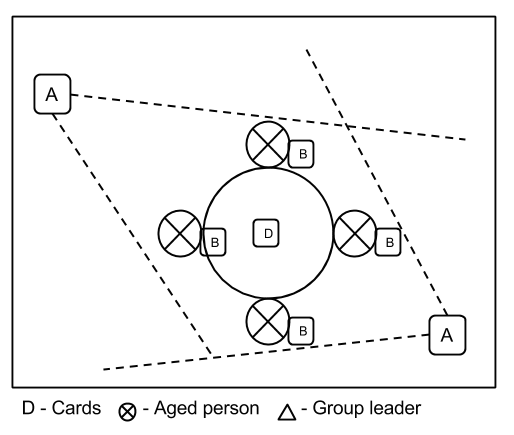
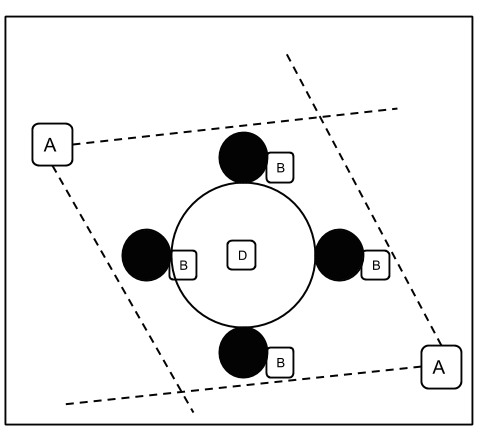
Add Tiago's superficial suggestions.

diff --git a/tex/4_user_studies.tex b/tex/4_user_studies.tex
@@ -2,11 +2,11 @@
 
 Firstly, developing this kind of technology, such as a robot for aged people, brings some delicate questions.
 The potential users sometimes have few or nonexistent experience with technology.
-Regarding this evidence, it is difficult for them to understand how robots work and what can they actually do.
+Regarding this evidence, it is difficult for them to understand how robots work and what they can actually do.
 
 Considering the goal of developing an social embodied agent in the game scenario, user studies will be required, similarly to what Pereira et al. have done with the Risk player.
-These user studies aim to collect specific behaviours and verbal interactions in the domain of \emph{Sueca}.
-However, understanding their needs, expectations and fears is a priority. As a result, a pilot study was developed in a care home in order to answer all these questions.
+These user studies aim to collect specific social, verbal and nonverbal behaviours, and also some cognitive and strategic guidelines in the domain of \emph{Sueca}.
+However, understanding their needs, expectations and fears is a priority \cite{Lisboa}. As a result, a pilot study was developed in a care home in order to answer all these questions.
 
 The pilot study involved two different
 activities, a focus group and a card game.
@@ -25,7 +25,7 @@ Usually, people tend to feel comfortable and easily share their opinions about t
 \subsubsection{Methodology}
 The elderly participants were divided into groups of 5 people.
 There were 2 researchers per group commanding and guiding all the process.
-The list of used materials is:
+The list of materials used per group:
 
 \begin{itemize}
 \item A video to illustrate what is a robot;
@@ -33,6 +33,7 @@ The list of used materials is:
 \item Two white boards and three pens (black, red and green);
 \item Three hypothetical stories of robots;
 \item An audio recorder;
+\item Four lavalier microphones;
 \item A video camera.
 \end{itemize}
 
@@ -41,18 +42,18 @@ The mentioned video tries to answer the questions: what is a robot, what can rob
 In order not to bias their thoughts, we tried to gather positive and negative aspects of existing robots.
 The three hypothetical stories aim to bring ethical discussions to the focus group.
 For instance, an elderly that owns a robot in his home tells him a secret.
-If that robot is questioned about the secret, it should or should not tell other people the truth?
+If that robot is questioned about the secret, should it or should it not tell other people the truth?
 
 \subsubsection{Procedures}
-All the material enumerated in the previous list were arranged as in the Figure~\ref{fig:focus-group}.
+All the materials enumerated in the previous list were arranged as in Figure~\ref{fig:focus-group}.
 Firstly, each one in the room briefly introduces himself in order to make everyone feeling more comfortable.
 Secondly, the video is shown.
 Then, everyone starts discussing about robots' purposes and they are registered in one of the white boards with the black coloured pen.
 People also express a positive or negative impression of each robot's purpose and their opinions decide the colour of the surrounding line.
 For instance, the sentence ``Call an ambulance'' written on the board is surrounded by a green line if they think it is a good purpose for a robot.
 After finishing this task, one of the group leaders writes all the sentences previously collected in the second board but without the surrounding green or red lines.
-The other group leader starts reading the hypothetical stories and opens a new discussion about what should the robots of each story do.
-He also presents the photographies and try to understand which robot is more suitable for each purpose in their opinion.
+The other group leader starts reading the hypothetical stories and opens a new discussion about what the robots of each story should do.
+He also presents the photographs and tries to understand which robot is more suitable for each purpose in their opinion.
 When bringing the new board to the room, the idea is to understand if their positive and negative opinions about each purpose have changed.
 
 \begin{figure}
@@ -67,13 +68,13 @@ When bringing the new board to the room, the idea is to understand if their posi
                 \caption{Card game}
                 \label{fig:card-game}
         \end{subfigure}
-        \caption{Setting of the user study activities}\label{fig:user-studies}
+        \caption{Setting of the user study activities. A - Video recorder B - Audio recorder / Microphone C - White board D - cards \ding{108} - Aged person \ding{115} - Group leader}\label{fig:user-studies}
 \end{figure}
 
 
 \subsubsection{Preliminary Results}
 
-This focus group is an ongoing activity that has not been fully analysed.
+This focus group is an ongoing activity that has not yet been fully analysed.
 Information has already been collected from 3 different focus groups with a sum of 15 participants.
 For instance, contrasting with what was expected, the elderly do not feel uncomfortable and disrespected with a robot calling the doctor and revealing improper behaviours from its owner.
 Instead, they think it is a valuable aid in their lives and might save them while disrespecting strict instructions.
@@ -87,9 +88,11 @@ When walking through the house and sometimes due to physical disabilities, they 
 
 
 \subsection{Card Game}
-This pilot activity with card games aim to rehearse further studies and to start collecting information from the \emph{Sueca} domain.
+This pilot card game activity aims two distinct purposes.
+On one hand, to collect all kind of behaviours and interactions between players during the game.
+On the other hand, to rehearse and check technical the set-up for further studies.
 It is important to understand difficulties, for instance lightning conditions might affect video recording or the room acoustic and noise might affect audio recording.
-Testing this conditions is essential to guarantee the analyses of additional studies.
+Testing these conditions is essential to guarantee the analyses of additional studies.
 Moreover, perceiving how the elderly play, what do they say and how they behave in certain game states.
 
 \subsubsection{Methodology}
@@ -99,7 +102,7 @@ Recording each \emph{Sueca} card game requires four players, one card deck, a ta
 All the material previously enumerated were arranged as in the Figure~\ref{fig:card-game}.
 Each video camera is positioned in a way that can capture the hands of two adjacent players.
 Players were recorded during a tournament of several games.
-They were told to play as long as they want with a maximum duration of one hour.
+They were told to play as long as they wanted with a maximum duration of one hour.
 
 \subsubsection{Preliminary Results}
 The session took only 40 minutes, since the 4 players were feeling weary.

diff --git a/tex/3_1_card_games.tex b/tex/3_1_card_games.tex
@@ -34,7 +34,7 @@ Regarding that some of these domains remain a challenge for traditional \gls{ai}
 
 
 %%% diferenca entre MCTS e PIMC
-In order to solve an hidden information game, the first challenge is to deal with the information sets.
+In order to solve a hidden information game, the first challenge is to deal with the information sets.
 The most used approach is determinization, which samples choice nodes instead of considering all of them in an unique set.
 Applying this approach to \gls{mcts} is known as \gls{pimc}.
 For instance in a card game scenario, each iteration of the algorithm samples the cards distributions for all players and the simulation process of the game behaves as a perfect information game.
@@ -57,7 +57,7 @@ If in that state he makes another move, player 2 might assume they are in world 
 
 
 %%% O Long estudou com que propriedades o PICM funciona
-Despite of the fortunate outcomes of \gls{pimc}, there still were difficulties in understanding the strong results of this algorithm, specially considering the previously mentioned problems.
+Despite the fortunate outcomes of \gls{pimc}, there still were difficulties in understanding the strong results of this algorithm, specially considering the previously mentioned problems.
 As a result, Long et. al. have analysed carefully the expected \gls{pimc}' errors mentioned by critics \cite{Long2010}.
 These mistakes lead him to find three different properties of a game and test its influences on the success of \gls{pimc}.
 The first property is \emph{leaf correlation}, which demonstrates how likely it is to affect a player's payoff in the neighbourhood of a leaf.
@@ -68,7 +68,7 @@ These properties have been tested in a set of experiments in both \gls{pimc} and
 The performance of \gls{pimc} increases as the correlation value is higher.
 It has also been shown that bias does not considerably affect its success.
 Finally, disambiguation has the greatest impact on the results of the algorithm.
-When this last value is higher, it means the game becomes more quickly into a perfect information game.
+When this last value is higher, it means the game turns more quickly into a perfect information game.
 Additionally, Buro demonstrates real game examples of theses properties, for Skat and Kuhn poker.
 Due to its properties configurations, Skat indicates a considerably good performance of \gls{pimc}.
 Since Skat presents strong similarities to \emph{Sueca}, it is expected that \gls{pimc} also has a good performance when applied to \emph{Sueca}.
@@ -77,7 +77,7 @@ Since Skat presents strong similarities to \emph{Sueca}, it is expected that \gl
 %%%  cowling propose ISMCTS
 Cowling et. al. have also investigated the application of \gls{mcts} to hidden information games \cite{Cowling2012}.
 Their research supports a new descendant family of algorithms, \gls{ismcts}.
-\gls{ismcts} works with information sets, instead game states.
+\gls{ismcts} works with information sets, instead of game states.
 It also uses determinization to sample the game, however produces a single tree.
 The main advantages are the computational space efficiency and fact of suffering less \emph{strategy fusion} than \gls{pimc}.
 The authors presented some experiments in three different games, including a card game.
@@ -87,16 +87,15 @@ This evidence has discouraged the usage of this technique on the domain of \emph
 
 %%% IIMC
 Recently, Furtak and Buro \cite{Furtak} presented a new search algorithm called \gls{iimc}.
-It is considered an improvement of \gls{pimc}.
+It can be suitably applied to hidden information games and reduces the strategy fusion problem.
 During the simulation phase, each player's move is chosen inside a player's module.
 The game behaves as an imperfect information due to this encapsulation.
 Additionally, the players' modules allow the differentiation of players using different strategies.
 The authors revealed the great potential of this approach when applied to trick-based card games, since it has been tested in the Skat scenario.
-This algorithm appears to be the trump card regarding all the mentioned approaches.
-When trying to solve \emph{Sueca}, it should not be the first used technique.
-Since \emph{Sueca} has no previous research, its response to powerless approaches must be initially evaluated.
 
-
+Due to the similarity between \emph{Sueca} and Skat, it is predictable that Monte Carlo methods might produce good results.
+However, assuming the exact same behaviour when applying different variations of \gls{pimc} might be a mistake, considering certain domain characteristics.
+As a result, using the \gls{iimc} approach before trying \gls{pimc} could not be a reasonable strategy.
 
 
 
@@ -122,11 +121,11 @@ First, determining the $P$(world\textbar move) on offline data, instead of doing
 Lastly, his formulation is generalised in a way that it is possible to perform it on high-level features.
 The main difference between \emph{Sueca} and Skat is that the first one does not have the bidding phase.
 Due to this discrepancy, Buro's first technique would not be appropriate for the \emph{Sueca} game.
-Although, the search enhancements could be suitably applied since the game trees are identical.
+However, the search enhancements could be suitably applied since the game trees are identical.
 
 
 Usually, opponent modelling uses optimal strategies to predict other players' actions.
-Therefore, these models tend to be overly defencive.
+Therefore, these models tend to be overly defensive.
 Consequently, Long and Buro in 2011 \cite{Long2009} suggests a post-processing analysis that is able to infer opponent's qualities based on their decisions in a certain environment.
 The main idea is to classify each opponent with a mistake rate and use that value to be more or less defencive.
 This approach, called \gls{pipma}, computes a procedure after each episode of the game (in a trick-taking card-game, it would be after each trick) to update incrementally the mistake rate of each opponent.
@@ -147,6 +146,6 @@ Besides modelling the opponents, the authors present how to integrate this funct
 Instead of sampling the cards randomly, \gls{mcts} uses the card predictions.
 Therefore, the algorithm does not need a numerous amount of iterations to reach a uniform card distribution.
 Furthermore, the probabilities of action predictions are used in the selection phase of the \gls{mcts}, according to the state of the game and the sampled cards.
-Since \gls{mcts} is the potential choice to solve \emph{Sueca}, a similar opponent model can also improve the capabilities of this algorithm, as shown in Poker.
+Since \gls{mcts} is a possible choice to solve \emph{Sueca}, a similar opponent model can also improve the capabilities of this algorithm, as shown in Poker.
 
  

diff --git a/tex/1_introduction.tex b/tex/1_introduction.tex
@@ -7,7 +7,7 @@ Similarly, there is a worry about keeping them entertained, and so, it is crucia
 These activities may range from training their cognitive functions to just accompanying them.
 Hence, all these concerns are commonly being solved with the help of technology.
 For instance, there is software suitable for training memory problems due to Aphasia \cite{Pompili2011}.
-Another example that illustrates the presence of technology in the elderly lives is a robot.
+Another example that can illustrate the presence of technology in the elderly lives is a robot.
 Robots are already being used to remind them to take their medicine or to vacuum their floors.
 However, occupying their free time with pleasuring activities continues to be a challenging task.
 
@@ -24,9 +24,9 @@ All these agents are good baselines to improve \gls{ai} in games.
 
 Besides building programs that try to think rationally or humanly, \gls{ai} has also another branch that aims to act humanly \cite{Russell2009}.
 This concern arises from the inclusion of robots in humans' life.
-Most of these robots' purpose is doing certain tasks that are currently being done by humans (i.e. vacuum the floor, play football or drive a car).
+%Most of these robots' purpose is doing certain tasks that are currently being done by humans (i.e. vacuum the floor, play football or drive a car).
 Consequently, they have to behave properly in those environments.
-Considering these robots are surrounded by humans, it is a relevant concern with the way they interact and communicate with people.
+Considering these robots are surrounded by humans, the way they interact and communicate with people is a relevant concern.
 The human-robot interaction field explores the social integration of robots with humans.
 
 
@@ -40,6 +40,7 @@ On one hand, this agent should play the game correctly.
 After analysing the given hand, dealt at the beginning of the game, it should make good choices about what cards should be played.
 On the other hand, this embodied agent should act accordingly to the environment of this scenario.
 Since \emph{Sueca} is a four-player game with two teams, it involves an opponent and a companion role.
+\todo{Desenvolver esta questao}
 Every player should be engaged in the game with its verbal interaction and behaviours.
 
 
@@ -49,16 +50,16 @@ Every player should be engaged in the game with its verbal interaction and behav
 
 The main goals of this project are:
 \begin{itemize}
-\item Develop an embodied agent capable of playing and winning the \emph{Sueca} card game;
+\item Develop a robotic agent capable of playing and winning the \emph{Sueca} card game;
 \item Include social behaviours on an embodied agent in order to act according to the game state;
 \item Evaluate the correctness and advantages of the proposed system.
 \end{itemize}
 
 \subsection*{\centering*}
 
-The next section presents some background research that helps the reader understanding the problems further mentioned (Section~\ref{sec:background}).
+The next section presents some background research that helps the reader to understand the problems further mentioned (Section~\ref{sec:background}).
 The report proceeds with the state-of-art of playing card-games and human-robot-interaction with the elderly (Section~\ref{sec:related-work}).
-Additionally, it reveals a pilot user study that has already been done (Section~\ref{sec:user-studies}).
-Finally, it presents the proposed architecture, its evaluation methodology and the final conclusions (respectively, Sections~\ref{sec:architecture}, \ref{sec:evaluation} and \ref{sec:conclusion}).
+Additionally, a pilot user study is revealed (Section~\ref{sec:user-studies}).
+Finally, proposed architecture is presented, its evaluation methodology and the final conclusions (respectively, Sections~\ref{sec:architecture}, \ref{sec:evaluation} and \ref{sec:conclusion}).
 
 

diff --git a/tex/2_1_game_theory.tex b/tex/2_1_game_theory.tex
@@ -7,7 +7,7 @@ Nowadays this subject is applied to many different areas, such as economics, pol
 
 Each one of the decision makers tries to maximise the payoff/reward of his possible actions.
 In order to do that, a possible approach is trying to consider the opponents' actions.
-Consequently, the Nash-equilibrium of a game is a stable strategy for every player and occurs when each player chooses the best strategy for himself, considering their opponents have the same behaviour.
+Consequently, the Nash-equilibrium \cite{Nash1950} of a game is a stable strategy for every player and occurs when each player chooses the best strategy for himself, considering their opponents have the same behaviour.
 Each player cannot have a better benefit by changing his strategy.
 
 \begin{figure}
@@ -17,7 +17,7 @@ Each player cannot have a better benefit by changing his strategy.
 \label{fig:games}
 \end{figure}
 
-Games can be categorised according to the hierarchy of Figure~\ref{fig:games}.
+Games can be categorised according to the hierarchy of Figure~\ref{fig:games} \cite{Osborne2011}.
 In a cooperative game, players cooperate with one another in order to achieve a common goal.
 Alternatively, in a non-cooperative game, players work independently for their own purposes.
 Non-cooperative games can also be branched in two forms: normal form and extensive form \cite{Shoham2010}.

diff --git a/tex/2_2_sueca.tex b/tex/2_2_sueca.tex
@@ -23,7 +23,9 @@ Points & 0   & 2 & 3 & 4 & 10 & 11 \\ \hline
 
 After the deck has been shuffled and divided, the dealer chooses the top or bottom card to be the trump suit and distributes the cards among all players.
 The remaining rules are quite similar to other trick-taking games.
-As mentioned in previous subsection, \emph{Sueca} is a nondeterministic game, since it includes what is called the element of chance by the cards being dealt randomly at the beginning.
+
+
+\emph{Sueca} is a nondeterministic game, since it includes what is called the element of chance by the cards being dealt randomly at the beginning.
 Additionally, since the cards of each player are hidden from the other players, this is considered as an imperfect information game.
 There are almost $1.9\times10^{22}$ possible card distributions\footnote{$4\times\Comb{40}{10}\times\Comb{30}{10}\times\Comb{20}{10}$}.
 %Nevertheless, considering the initial hand of the agent, the uncertainty about other players' hands decreases to $5.9\times10^{12}$ \footnote{$\Comb{30}{10}\times\Comb{20}{10}$}.

diff --git a/tex/7_conclusion.tex b/tex/7_conclusion.tex
@@ -6,7 +6,7 @@ Considering the companion type robots for aged people, existing technology is fo
 On the other hand, the proposed robot aims to interact with elderly in a specific scenario for an entertainment and stimulating activity.
 
 The \emph{Sueca} player will be based on Monte Carlo methods that are currently being successfully used on similar card games.
-Additionally, in order to balance the power of this artificial player it will also be used an opponent modelling.
+Additionally, in order to balance the power of this artificial player, an opponent modelling will also be included.
 This artificial player should be a challenging opponent for the elderly players, although considering their average skills and level.
 
 The mentioned pilot user study has also been elaborated in order to introduce the robots theme into the elderly lives and anticipate some problems that might occur in further studies.
